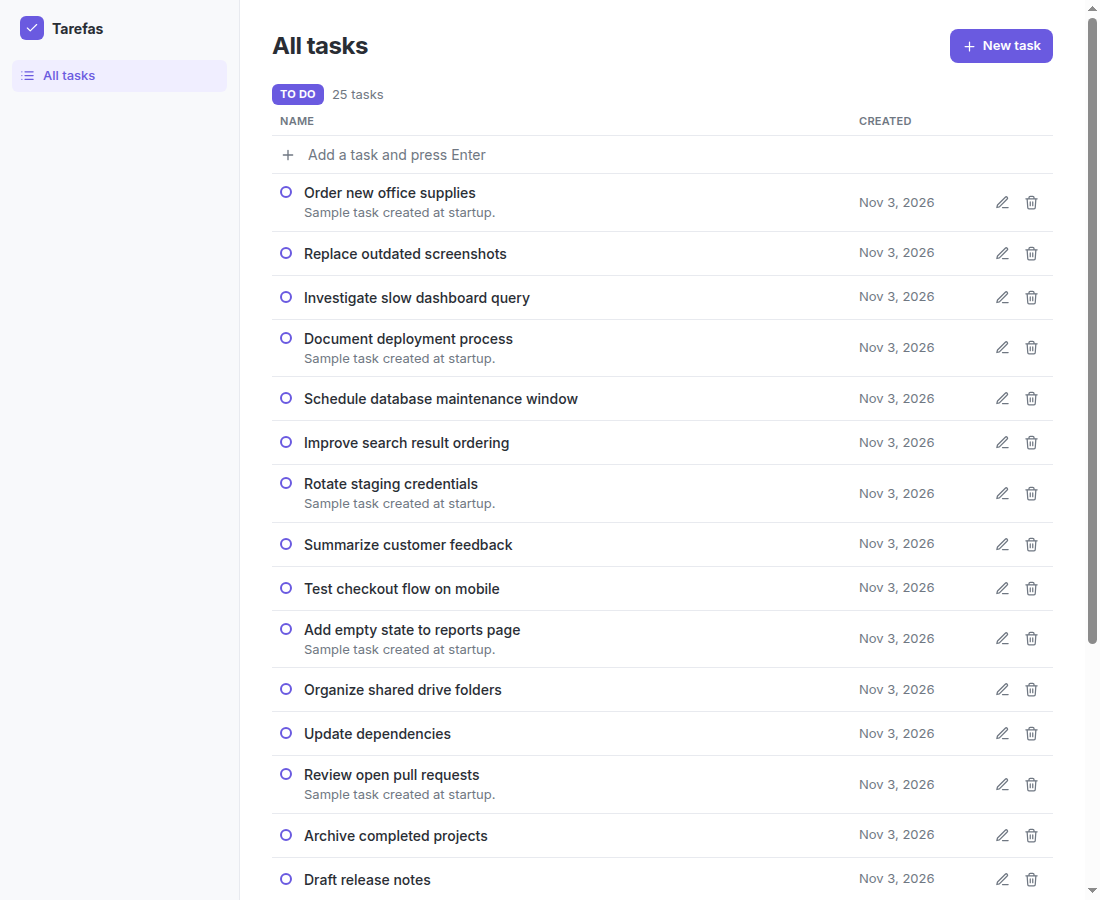
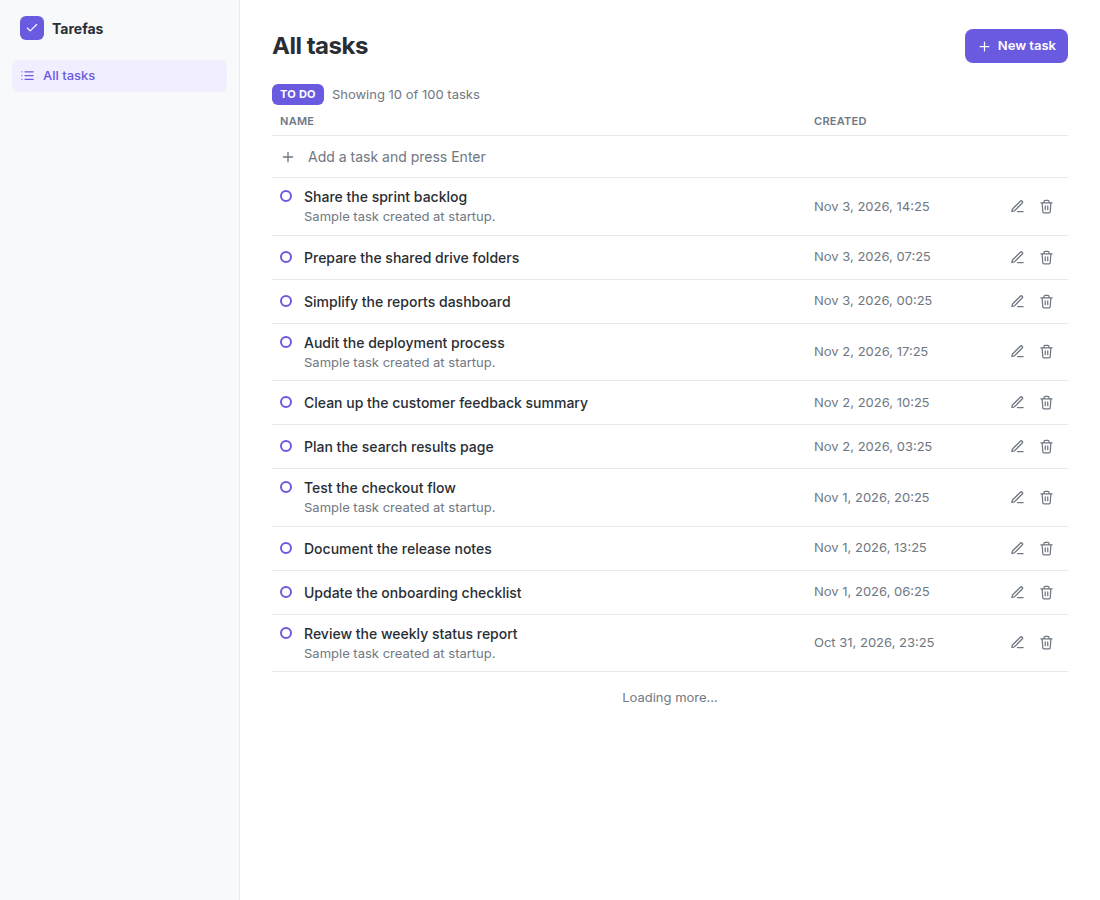
docs: update README with date editing, states and new screenshots

diff --git a/README.md b/README.md
@@ -8,20 +8,22 @@ Add a task by typing one line, scroll through the list without ever hitting a "n
 
 ## Highlights
 
-- **Add tasks without leaving the list.** Type a title, press Enter, and it appears at the top. The full form is one click away when you want a description.
+- **Add tasks without leaving the list.** Type a title, press Enter, and keep typing the next one: focus stays in the field, even while the previous task is saving. The full form is one click away when you want a description.
 - **Content on first paint.** The list arrives as HTML from the server, so there is no loading spinner on page load and no empty flash.
-- **Infinite scroll that survives deletions.** Pagination is anchored to task ids, so removing a task never skips or repeats rows, even when the removed task is the one the next page starts from.
+- **Infinite scroll you can see working.** It starts with 100 fictional tasks and loads 10 at a time, with a live "Showing 20 of 100 tasks" counter.
+- **Pagination that survives deletions.** Pages are anchored to task ids, so removing a task never skips or repeats rows, even when the removed task is the one the next page starts from.
+- **Editable date and time.** Every task shows when it was created, down to the minute, and the edit form can change it.
 - **One source of truth for validation.** The form and the API use the same Zod schema, so they can't disagree. A title made only of spaces is rejected on both sides.
-- **Errors people can read.** Validation failures reach the UI as "Title is required", not as a JSON dump. Editing a task someone deleted in another tab says so, and the list corrects itself.
+- **Errors people can read.** Validation failures reach the UI as "Title is required", not as a JSON dump. Editing a task someone deleted in another tab says so, and the list corrects itself. If the connection drops, the app says that too, and quick add gives your text back.
 - **A real 404.** An unknown task id returns HTTP 404 with a friendly page, not a 200 with an error message inside.
 - **Zero known vulnerabilities in production dependencies** at the time of writing, according to `npm audit --omit=dev`.
 - **Works on a phone.** The layout adapts down to 375px, and row actions stay visible where there is no hover.
 
 ## Screenshots
 
-| Validation in the form | Mobile |
-| --- | --- |
-| ![Form showing the message Title is required](docs/screenshots/form.png) | ![Task list on a phone-sized screen](docs/screenshots/mobile.png) |
+| Editing, with date and time | Validation in the form | Mobile |
+| --- | --- | --- |
+| ![Edit form with title, description and date and time fields](docs/screenshots/edit.png) | ![Form showing the message Title is required](docs/screenshots/form.png) | ![Task list on a phone-sized screen](docs/screenshots/mobile.png) |
 
 ## Quick start
 
@@ -32,7 +34,7 @@ npm install
 npm run dev
 ```
 
-Open http://localhost:3000. The app starts with 25 fictional tasks, so the list and infinite scroll work right away.
+Open http://localhost:3000. The app starts with 100 fictional tasks, so the list and infinite scroll work right away.
 
 For a production build:
 
@@ -75,12 +77,13 @@ flowchart LR
 ```
 src/
 ├── app/
+│   ├── (list)/page.tsx           # task list, server-rendered per request
+│   ├── (list)/loading.tsx        # skeleton shown while navigating to the list
 │   ├── api/trpc/[trpc]/route.ts  # exposes the router over HTTP
 │   ├── tasks/new/page.tsx        # create page
 │   ├── tasks/[id]/edit/page.tsx  # edit page, loads the task on the server
 │   ├── layout.tsx                # app shell: sidebar, font, tRPC provider
-│   ├── not-found.tsx             # 404 page
-│   └── page.tsx                  # task list, server-rendered per request
+│   └── not-found.tsx             # 404 page
 ├── components/
 │   ├── feedback.tsx              # success and error toast
 │   ├── icons.tsx                 # inline SVG icons
@@ -88,7 +91,9 @@ src/
 │   ├── task-form.tsx             # shared create and edit form
 │   └── task-list.tsx             # list, delete, infinite scroll
 ├── lib/
-│   ├── task-schema.ts            # Zod schema shared by form and API
+│   ├── date.ts                   # date display and date input conversion
+│   ├── error-message.ts          # readable message for connection failures
+│   ├── task-schema.ts            # Zod schemas shared by form and API
 │   └── trpc/                     # React client, provider, server caller
 └── server/
     ├── routers/                  # tasks router and root router
@@ -103,7 +108,7 @@ src/
 | `id` | `string` | Generated by the server, always increasing |
 | `titulo` | `string` | Required, trimmed |
 | `descricao` | `string` | Optional |
-| `dataCriacao` | `string` | ISO-8601 timestamp |
+| `dataCriacao` | `string` | ISO-8601 timestamp, set by the server on creation and editable afterwards |
 
 ## API
 
@@ -114,10 +119,10 @@ Every procedure lives under `tasks`, at `/api/trpc/tasks.<procedure>`.
 | `list` | query | `cursor?`, `limit?` (default 10, max 50) | `BAD_REQUEST` |
 | `getById` | query | `id` | `NOT_FOUND` |
 | `create` | mutation | `titulo`, `descricao?` | `BAD_REQUEST` |
-| `update` | mutation | `id`, `titulo`, `descricao?` | `BAD_REQUEST`, `NOT_FOUND` |
+| `update` | mutation | `id`, `titulo`, `descricao?`, `dataCriacao?` | `BAD_REQUEST`, `NOT_FOUND` |
 | `delete` | mutation | `id` | `NOT_FOUND` |
 
-`list` returns `{ items, nextCursor, total }`. `update` replaces the editable fields, so leaving out `descricao` clears it.
+`list` returns `{ items, nextCursor, total }`. In `update`, leaving out `descricao` clears it, and leaving out `dataCriacao` keeps the current date.
 
 Try it from a terminal while the app is running:
 
@@ -146,10 +151,12 @@ curl -G http://localhost:3000/api/trpc/tasks.list \
 | `force-dynamic` on the list page | The list changes constantly and must not be cached at build time | Every request renders on the server |
 | ISO date strings | Travel through JSON unchanged, with no superjson or `Date` transformer | Dates must be parsed before display |
 | Schema in its own file | The form imports it without pulling server code into the browser | One more file |
-| Cursor based on increasing ids | Stable pages, even if the cursor's own task was deleted | Only supports newest-first order |
-| Fixed locale and time zone for dates | Server and browser render the same text, avoiding hydration errors | Everyone sees São Paulo dates |
+| Cursor based on increasing ids | Stable pages, even if the cursor's own task was deleted | The list follows creation order, so editing a task's date doesn't move its row |
+| Fixed time zone and hand-built date text | Server and browser render the same text, avoiding hydration errors | Everyone sees São Paulo time |
+| Quick add input is never disabled | A disabled input loses focus, and anything typed next would be lost | Several requests can run at once, which the store handles fine |
+| `networkMode: "always"` in TanStack Query | Offline requests fail with a message instead of pausing silently | No automatic resume when the connection returns |
 | Native `IntersectionObserver` | Infinite scroll needs no library; "Load more" is the fallback | None worth noting at this size |
-| No route-level `loading.tsx` | The store answers instantly, and it would turn missing-task 404s into 200s | No page-level loading state |
+| `loading.tsx` only in the `(list)` route group | At the root it would also wrap the edit page, turning missing-task 404s into 200s | The edit page has no skeleton |
 | `postcss` override in `package.json` | Next 15 pins a version with known advisories; this moves to a patched one without leaving Next 15 | Must be reviewed when Next is upgraded |
 | Portuguese field names | `titulo`, `descricao` and `dataCriacao` are the domain vocabulary | Mixed with English code |
 | No component or icon library | Tokens in `globals.css` and five inline SVGs cover this UI | Components are written by hand |
@@ -158,14 +165,16 @@ curl -G http://localhost:3000/api/trpc/tasks.list \
 
 | State | What the user sees | Where |
 | --- | --- | --- |
+| Opening the list | Skeleton rows while the page loads | `(list)/loading.tsx` |
 | Saving | Button disabled, showing "Saving..." | `task-form.tsx` |
-| Quick add in progress | Input disabled until the task is saved | `quick-add.tsx` |
+| Quick add in progress | "Saving..." beside the input, which stays available | `quick-add.tsx` |
 | Deleting | That row's delete button is disabled | `task-list.tsx` |
 | Loading more | "Loading more..." below the list | `task-list.tsx` |
 | End of list | "You've reached the end" | `task-list.tsx` |
 | Success | Toast that disappears after 4 seconds | `feedback.tsx` |
-| Validation error | "Title is required" under the field, or in a toast on quick add | `task-form.tsx`, `quick-add.tsx` |
+| Validation error | "Title is required" or "Date and time are required" under the field, or a toast on quick add | `task-form.tsx`, `quick-add.tsx` |
 | Server error | Toast with the API message, such as "Task 24 not found" | `feedback.tsx` |
+| Connection failure | "Could not reach the server..." | `error-message.ts` |
 | Empty list | A sentence pointing to quick add and the full form | `task-list.tsx` |
 | Not found | HTTP 404 with a link back to the list | `not-found.tsx` |
 
@@ -178,7 +187,7 @@ curl -G http://localhost:3000/api/trpc/tasks.list \
 
 ## How it was verified
 
-Every flow was exercised in a real browser against the production build: infinite scroll, quick add, create, edit, delete, every error message above, the 404 status and the 375px layout, with no console or hydration errors. These checks were one-off scripts and are not part of this repository. Adding them as automated tests is the first item below.
+The main flows were exercised in a real browser against the production build: infinite scroll through all 100 tasks, quick add with real keystrokes, create, edit (including date and time), delete, validation and server errors, an offline connection, a slow connection, the 404 status and the 375px layout, with no console or hydration errors. These checks were one-off scripts and are not part of this repository. Adding them as automated tests is the first item below.
 
 ## Known limitations
 
